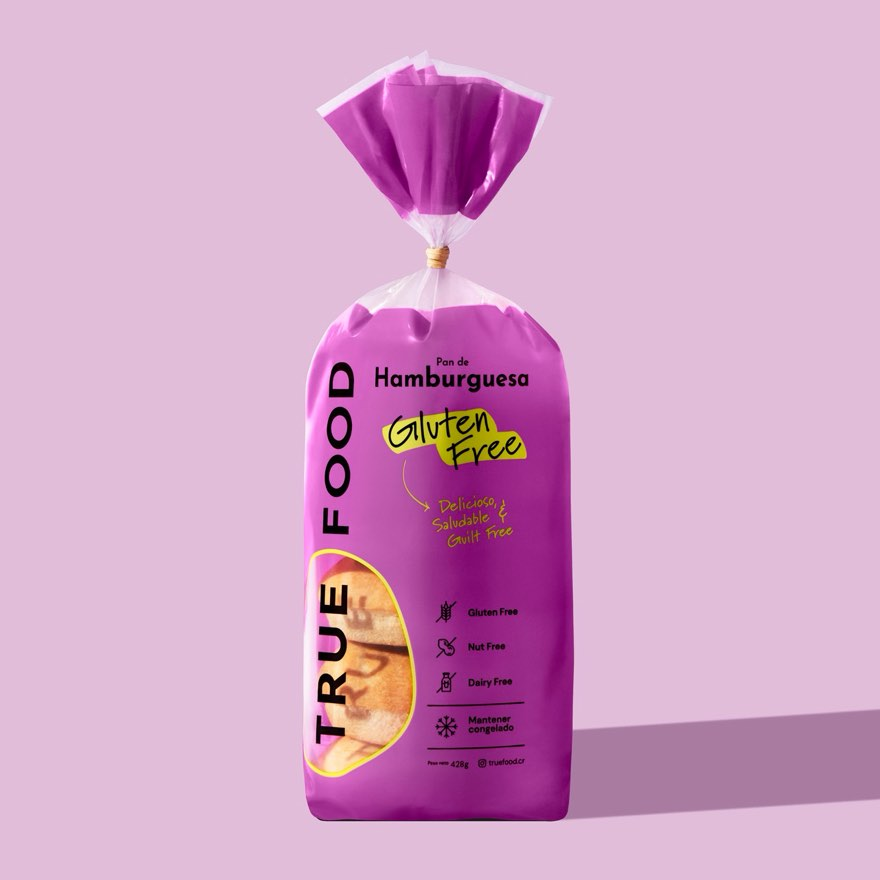
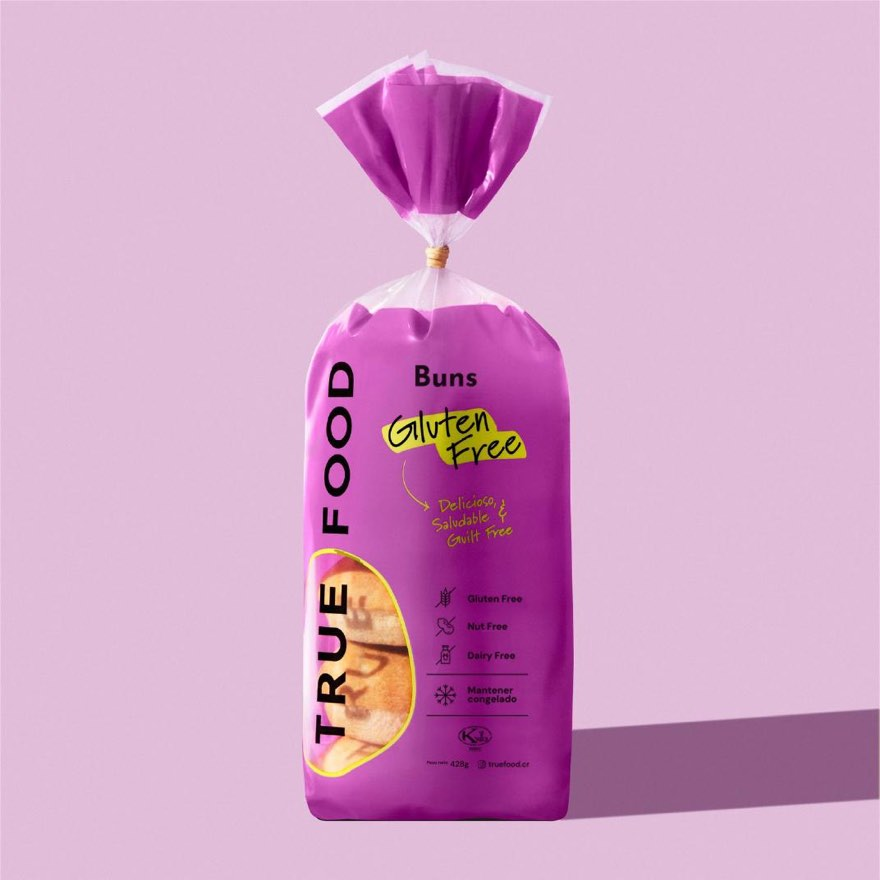
Hero B, menú de secciones, títulos nuevos y vida útil
- Hero: «Pan de verdad. Sin gluten.» con la bajada corrida en una sola
  frase (antes iba forzada a 30ch y se partía en dos).
- Barra pegada con menú de cinco secciones. En celular se desliza en
  horizontal, con un degradado en el borde que avisa que sigue. Sin
  hamburguesa: escondería justo lo que el comprador viene a buscar.
- Las anclas caían debajo del encabezado. Medido: hasta 128px en celular
  y 87px en escritorio; scroll-margin-top ajustado por encima de eso.
- Títulos: «Nuestro mantra», «Nuestros productos», «Nuestra historia».
  La frase del amor de una mamá pasa a ser la primera línea del texto.
- Columna «Vida útil · 6 meses» en la tabla del comprador, confirmada.
- Buns: empaque nuevo. La bolsa ahora dice «Buns», que era el nombre que
  ya usaba el sitio — no queda nada por sincronizar con Odoo ni Truefie.

diff --git a/index.html b/index.html
@@ -34,6 +34,15 @@
       <a href="/" aria-current="true" lang="es">ES</a>
       <a href="/en/" lang="en" hreflang="en">EN</a>
     </nav>
+    <nav class="secciones" aria-label="Secciones del sitio">
+      <ul>
+        <li><a href="#productos">Productos</a></li>
+        <li><a href="#donde">D&oacute;nde comprar</a></li>
+        <li><a href="#sellos">Certificaciones</a></li>
+        <li><a href="#nosotras">Historia</a></li>
+        <li><a href="#b2b">Exportaci&oacute;n</a></li>
+      </ul>
+    </nav>
   </div>
 </header>
 
@@ -46,8 +55,8 @@
        ==================================================================== -->
   <section class="hero">
     <div class="hero-txt">
-      <h1><span>Nadie adivina</span><span>que es gluten free.</span></h1>
-      <p class="hero-sub">Pan de verdad, congelado. En los congeladores de tu súper.</p>
+      <h1><span>Pan de verdad.</span><span>Sin gluten.</span></h1>
+      <p class="hero-sub">Hecho con los mejores ingredientes, naturalmente libres de gluten. En los congeladores del supermercado.</p>
     </div>
     <img class="hero-foto"
          src="assets/img/hero-miga-1800.jpg"
@@ -62,13 +71,13 @@
        ==================================================================== -->
   <section class="seccion mantra" aria-labelledby="t-mantra">
     <div class="inner">
-      <h2 id="t-mantra" class="rotulo" style="color:#8E927F">Lo que nos define</h2>
+      <h2 id="t-mantra" class="rotulo" style="color:#8E927F">Nuestro mantra</h2>
       <ol>
         <li>delicioso</li>
         <li>saludable</li>
         <li>gluten free</li>
       </ol>
-      <p>Comida de verdad, hecha con ingredientes reales y naturalmente libre de gluten.</p>
+      <p>En ese orden. Primero tiene que estar rico. Si no es divino, no es True Food.</p>
     </div>
   </section>
 
@@ -78,7 +87,7 @@
   <section class="seccion productos" id="productos" aria-labelledby="t-prod">
     <div class="inner">
       <p class="rotulo">Los productos</p>
-      <h2 id="t-prod">Seis, y todos congelados</h2>
+      <h2 id="t-prod">Nuestros productos</h2>
       <p class="lede">Cada uno libre de gluten, lácteos y nueces. Los vas a reconocer en el congelador por el color de la bolsa.</p>
 
       <div class="rejilla">
@@ -115,7 +124,7 @@
 
         <article class="prod" style="--c:var(--c-buns)">
           <div class="prod-fotos">
-            <img class="prod-bolsa" src="assets/img/bolsa-buns.jpg" width="880" height="880" loading="lazy" alt="Bolsa morada de Buns de True Food">
+            <img class="prod-bolsa" src="assets/img/bolsa-buns.jpg" width="880" height="880" loading="lazy" alt="Bolsa morada de Buns de True Food, empaque nuevo">
             <img class="prod-servido" src="assets/img/servido-buns.jpg" width="880" height="1100" loading="lazy" alt="Hamburguesa armada con un bun de True Food">
           </div>
           <div class="prod-nombre"><span class="prod-punto" aria-hidden="true"></span><h3>Buns</h3></div>
@@ -200,8 +209,8 @@
       <img src="assets/img/fundadoras.jpg" width="1100" height="1467" loading="lazy" alt="Andrea Fernández y Lorena Madrid, fundadoras de True Food">
       <div>
         <p class="rotulo" style="color:#4A5220">Quiénes somos</p>
-        <h2 id="t-nos">True Food nace del amor de una mamá</h2>
-        <p>Cuando Santiago, el hijo menor de Andrea, empezó con alergias e intolerancias alimentarias, ella hizo lo que haría cualquier madre: buscar respuestas. En ese camino descubrió que el problema no era solo lo que comía, sino cómo su cuerpo reaccionaba a ciertos alimentos, entre ellos el gluten.</p>
+        <h2 id="t-nos">Nuestra historia</h2>
+        <p>True Food nace del amor de una mamá. Cuando Santiago, el hijo menor de Andrea, empezó con alergias e intolerancias alimentarias, ella hizo lo que haría cualquier madre: buscar respuestas. En ese camino descubrió que el problema no era solo lo que comía, sino cómo su cuerpo reaccionaba a ciertos alimentos, entre ellos el gluten.</p>
         <p>Lo que empezó como un ajuste en casa terminó cambiando la vida de la familia, y dando origen a un negocio que hoy ayuda a cientos de personas. Junto a su amiga Lorena Madrid, Andrea armó True Food para demostrar que sí se puede tener un estilo de vida delicioso, saludable y gluten free.</p>
         <p class="firma">«Porque lo bueno es real, y lo real es bueno.»</p>
         <ul class="credenciales">
@@ -231,6 +240,7 @@
                 <tr>
                   <th scope="col">Producto</th>
                   <th scope="col">Presentación</th>
+                  <th scope="col">Vida útil</th>
                   <th scope="col">Peso</th>
                   <th scope="col">Caja máster</th>
                   <th scope="col">Dimensiones</th>
@@ -240,27 +250,27 @@
               <tbody>
                 <tr style="--c:var(--c-blanco)">
                   <th scope="row"><span class="celda-punto" aria-hidden="true"></span>Pan Blanco</th>
-                  <td>Rebanado</td><td>740 g</td><td>6 unidades</td><td>30 × 24 × 23 cm</td><td>RE-CR-22-09623</td>
+                  <td>Rebanado</td><td>6 meses</td><td>740 g</td><td>6 unidades</td><td>30 × 24 × 23 cm</td><td>RE-CR-22-09623</td>
                 </tr>
                 <tr style="--c:var(--c-semillas)">
                   <th scope="row"><span class="celda-punto" aria-hidden="true"></span>Pan de Semillas</th>
-                  <td>Rebanado</td><td>915 g</td><td>6 unidades</td><td>30 × 24 × 23 cm</td><td>RE-CR-22-08653</td>
+                  <td>Rebanado</td><td>6 meses</td><td>915 g</td><td>6 unidades</td><td>30 × 24 × 23 cm</td><td>RE-CR-22-08653</td>
                 </tr>
                 <tr style="--c:var(--c-frances)">
                   <th scope="row"><span class="celda-punto" aria-hidden="true"></span>Pan Francés</th>
-                  <td>4 unidades por empaque</td><td>520 g</td><td>6 empaques · 24 unidades</td><td>30 × 24 × 23 cm</td><td>RE-CR-22-09623</td>
+                  <td>4 unidades por empaque</td><td>6 meses</td><td>520 g</td><td>6 empaques · 24 unidades</td><td>30 × 24 × 23 cm</td><td>RE-CR-22-09623</td>
                 </tr>
                 <tr style="--c:var(--c-buns)">
                   <th scope="row"><span class="celda-punto" aria-hidden="true"></span>Buns</th>
-                  <td>4 unidades por empaque</td><td>428 g</td><td>6 empaques · 24 unidades</td><td>30 × 24 × 23 cm</td><td>RE-CR-22-09623</td>
+                  <td>4 unidades por empaque</td><td>6 meses</td><td>428 g</td><td>6 empaques · 24 unidades</td><td>30 × 24 × 23 cm</td><td>RE-CR-22-09623</td>
                 </tr>
                 <tr style="--c:var(--c-pizza)">
                   <th scope="row"><span class="celda-punto" aria-hidden="true"></span>Pizza Crust</th>
-                  <td>2 unidades por empaque</td><td>560 g</td><td>6 empaques · 12 unidades</td><td>28 × 20 × 28 cm</td><td>RE-CR-24-07412</td>
+                  <td>2 unidades por empaque</td><td>6 meses</td><td>560 g</td><td>6 empaques · 12 unidades</td><td>28 × 20 × 28 cm</td><td>RE-CR-24-07412</td>
                 </tr>
                 <tr style="--c:var(--c-cookie)">
                   <th scope="row"><span class="celda-punto" aria-hidden="true"></span>Cookie Dough</th>
-                  <td>Masa congelada</td><td>340 g</td><td>12 unidades</td><td>30 × 22 × 22 cm</td><td>A-CR-25-29437</td>
+                  <td>Masa congelada</td><td>6 meses</td><td>340 g</td><td>12 unidades</td><td>30 × 22 × 22 cm</td><td>A-CR-25-29437</td>
                 </tr>
               </tbody>
             </table>

diff --git a/en/index.html b/en/index.html
@@ -34,6 +34,15 @@
       <a href="/" lang="es" hreflang="es">ES</a>
       <a href="/en/" aria-current="true" lang="en">EN</a>
     </nav>
+    <nav class="secciones" aria-label="Site sections">
+      <ul>
+        <li><a href="#productos">Products</a></li>
+        <li><a href="#donde">Where to find us</a></li>
+        <li><a href="#sellos">Certifications</a></li>
+        <li><a href="#nosotras">Our story</a></li>
+        <li><a href="#b2b">Export</a></li>
+      </ul>
+    </nav>
   </div>
 </header>
 
@@ -46,8 +55,8 @@
        ==================================================================== -->
   <section class="hero">
     <div class="hero-txt">
-      <h1><span>Nobody guesses</span><span>it's gluten free.</span></h1>
-      <p class="hero-sub">Real bread, frozen. Made in Costa Rica.</p>
+      <h1><span>Real bread.</span><span>No gluten.</span></h1>
+      <p class="hero-sub">Made with the best ingredients, naturally gluten free. In the supermarket freezer aisle.</p>
     </div>
     <img class="hero-foto"
          src="../assets/img/hero-miga-1800.jpg"
@@ -62,13 +71,13 @@
        ==================================================================== -->
   <section class="seccion mantra" aria-labelledby="t-mantra">
     <div class="inner">
-      <h2 id="t-mantra" class="rotulo" style="color:#8E927F">What defines us</h2>
+      <h2 id="t-mantra" class="rotulo" style="color:#8E927F">Our mantra</h2>
       <ol>
         <li>delicious</li>
         <li>healthy</li>
         <li>gluten free</li>
       </ol>
-      <p>Real food, made with real ingredients and naturally gluten free.</p>
+      <p>In that order. It has to taste good first. If it isn&rsquo;t delicious, it isn&rsquo;t True Food.</p>
     </div>
   </section>
 
@@ -78,7 +87,7 @@
   <section class="seccion productos" id="productos" aria-labelledby="t-prod">
     <div class="inner">
       <p class="rotulo">The products</p>
-      <h2 id="t-prod">Six products, all frozen</h2>
+      <h2 id="t-prod">Our products</h2>
       <p class="lede">Every one of them free of gluten, dairy and nuts. Each has its own colour on the shelf.</p>
 
       <div class="rejilla">
@@ -115,7 +124,7 @@
 
         <article class="prod" style="--c:var(--c-buns)">
           <div class="prod-fotos">
-            <img class="prod-bolsa" src="../assets/img/bolsa-buns.jpg" width="880" height="880" loading="lazy" alt="Purple bag of True Food Buns">
+            <img class="prod-bolsa" src="../assets/img/bolsa-buns.jpg" width="880" height="880" loading="lazy" alt="Purple bag of True Food Buns, new packaging">
             <img class="prod-servido" src="../assets/img/servido-buns.jpg" width="880" height="1100" loading="lazy" alt="Burger built on a True Food bun">
           </div>
           <div class="prod-nombre"><span class="prod-punto" aria-hidden="true"></span><h3>Buns</h3></div>
@@ -200,8 +209,8 @@
       <img src="../assets/img/fundadoras.jpg" width="1100" height="1467" loading="lazy" alt="Andrea Fernández and Lorena Madrid, founders of True Food">
       <div>
         <p class="rotulo" style="color:#4A5220">Who we are</p>
-        <h2 id="t-nos">True Food started with a mother</h2>
-        <p>When Santiago, Andrea's youngest son, began showing food allergies and intolerances, she did what any mother would: she looked for answers. Along the way she found that the problem was not only what he ate, but how his body reacted to certain foods — gluten among them.</p>
+        <h2 id="t-nos">Our story</h2>
+        <p>True Food started with a mother. When Santiago, Andrea's youngest son, began showing food allergies and intolerances, she did what any mother would: she looked for answers. Along the way she found that the problem was not only what he ate, but how his body reacted to certain foods — gluten among them.</p>
         <p>What started as a change at home ended up changing the family's life, and became a business that today helps hundreds of people. Together with her friend Lorena Madrid, Andrea built True Food to prove that a delicious, healthy, gluten-free life is possible.</p>
         <p class="firma">“Because what's good is real, and what's real is good.”</p>
         <ul class="credenciales">
@@ -232,6 +241,7 @@
                 <tr>
                   <th scope="col">Product</th>
                   <th scope="col">Pack format</th>
+                  <th scope="col">Shelf life</th>
                   <th scope="col">Weight</th>
                   <th scope="col">Master case</th>
                   <th scope="col">Dimensions</th>
@@ -241,27 +251,27 @@
               <tbody>
                 <tr style="--c:var(--c-blanco)">
                   <th scope="row"><span class="celda-punto" aria-hidden="true"></span>White Bread</th>
-                  <td>Sliced</td><td>740 g</td><td>6 units</td><td>30 × 24 × 23 cm</td><td>RE-CR-22-09623</td>
+                  <td>Sliced</td><td>6 months</td><td>740 g</td><td>6 units</td><td>30 × 24 × 23 cm</td><td>RE-CR-22-09623</td>
                 </tr>
                 <tr style="--c:var(--c-semillas)">
                   <th scope="row"><span class="celda-punto" aria-hidden="true"></span>Seeded Bread</th>
-                  <td>Sliced</td><td>915 g</td><td>6 units</td><td>30 × 24 × 23 cm</td><td>RE-CR-22-08653</td>
+                  <td>Sliced</td><td>6 months</td><td>915 g</td><td>6 units</td><td>30 × 24 × 23 cm</td><td>RE-CR-22-08653</td>
                 </tr>
                 <tr style="--c:var(--c-frances)">
                   <th scope="row"><span class="celda-punto" aria-hidden="true"></span>French Bread</th>
-                  <td>4 units per pack</td><td>520 g</td><td>6 packs · 24 units</td><td>30 × 24 × 23 cm</td><td>RE-CR-22-09623</td>
+                  <td>4 units per pack</td><td>6 months</td><td>520 g</td><td>6 packs · 24 units</td><td>30 × 24 × 23 cm</td><td>RE-CR-22-09623</td>
                 </tr>
                 <tr style="--c:var(--c-buns)">
                   <th scope="row"><span class="celda-punto" aria-hidden="true"></span>Buns</th>
-                  <td>4 units per pack</td><td>428 g</td><td>6 packs · 24 units</td><td>30 × 24 × 23 cm</td><td>RE-CR-22-09623</td>
+                  <td>4 units per pack</td><td>6 months</td><td>428 g</td><td>6 packs · 24 units</td><td>30 × 24 × 23 cm</td><td>RE-CR-22-09623</td>
                 </tr>
                 <tr style="--c:var(--c-pizza)">
                   <th scope="row"><span class="celda-punto" aria-hidden="true"></span>Pizza Crust</th>
-                  <td>2 units per pack</td><td>560 g</td><td>6 packs · 12 units</td><td>28 × 20 × 28 cm</td><td>RE-CR-24-07412</td>
+                  <td>2 units per pack</td><td>6 months</td><td>560 g</td><td>6 packs · 12 units</td><td>28 × 20 × 28 cm</td><td>RE-CR-24-07412</td>
                 </tr>
                 <tr style="--c:var(--c-cookie)">
                   <th scope="row"><span class="celda-punto" aria-hidden="true"></span>Cookie Dough</th>
-                  <td>Frozen dough</td><td>340 g</td><td>12 units</td><td>30 × 22 × 22 cm</td><td>A-CR-25-29437</td>
+                  <td>Frozen dough</td><td>6 months</td><td>340 g</td><td>12 units</td><td>30 × 22 × 22 cm</td><td>A-CR-25-29437</td>
                 </tr>
               </tbody>
             </table>

diff --git a/assets/css/site.css b/assets/css/site.css
@@ -78,11 +78,50 @@ p:last-child{margin-bottom:0}
    ========================================================================== */
 .nav{position:sticky;top:0;z-index:50;background:var(--papel);
      border-bottom:1px solid var(--linea)}
-.nav-in{max-width:var(--ancho);margin-inline:auto;padding:.7rem var(--borde);
-        display:flex;align-items:center;justify-content:space-between;gap:1rem}
-.nav-logo img{width:clamp(112px,20vw,140px)}
-.idioma{display:flex;align-items:center;gap:.15rem;font-size:.8125rem;font-weight:700;
-        letter-spacing:.06em}
+/* En celular: logo e idioma arriba, y el menu de secciones abajo, deslizable.
+   Nada de hamburguesa — esconderia justo lo que el comprador viene a buscar. */
+.nav-in{max-width:var(--ancho);margin-inline:auto;padding:.6rem var(--borde) 0;
+        display:flex;flex-wrap:wrap;align-items:center;gap:.4rem 1rem}
+.nav-logo{order:1;flex:0 0 auto}
+.nav-logo img{width:clamp(108px,20vw,136px)}
+.idioma{order:2;margin-left:auto;display:flex;align-items:center;gap:.15rem;
+        font-size:.8125rem;font-weight:700;letter-spacing:.06em}
+.secciones{order:3;flex:1 0 100%;min-width:0}
+
+.secciones ul{list-style:none;margin:0;padding:0 0 .55rem;display:flex;gap:1.35rem;
+              overflow-x:auto;overscroll-behavior-x:contain;
+              scrollbar-width:none;-webkit-overflow-scrolling:touch}
+.secciones ul::-webkit-scrollbar{display:none}
+.secciones li{flex:0 0 auto}
+.secciones a{display:block;white-space:nowrap;text-decoration:none;
+             font-size:.8125rem;font-weight:500;letter-spacing:.07em;text-transform:uppercase;
+             color:var(--gris);padding:.35rem 0;border-bottom:2px solid transparent}
+.secciones a:hover,.secciones a:focus-visible{color:var(--tinta);border-bottom-color:var(--lima)}
+/* margen de respiro al final de la tira, para que se note que sigue */
+.secciones li:last-child{padding-right:var(--borde)}
+
+/* En celular la tira se desliza; sin una pista visual nadie lo descubre.
+   El degradado del borde derecho dice "hay mas" sin ocupar lugar. */
+@media (max-width:939px){
+  .secciones{position:relative}
+  .secciones::after{content:"";position:absolute;top:0;right:0;bottom:0;width:2.4rem;
+    pointer-events:none;
+    background:linear-gradient(90deg,rgba(255,255,255,0),var(--papel) 72%)}
+}
+
+@media (min-width:940px){
+  .nav-in{padding:.55rem var(--borde);gap:1.8rem;flex-wrap:nowrap}
+  .secciones{order:2;flex:1 1 auto;margin-left:.4rem}
+  .secciones ul{padding-bottom:0;gap:1.6rem}
+  .idioma{order:3;margin-left:0;flex:0 0 auto}
+}
+
+/* El encabezado pegado tapa el destino de un ancla si no se compensa. */
+/* Medido: el encabezado mide hasta 128px en celular/tableta y 87px en
+   escritorio. La compensacion va por encima de eso para que el titulo de la
+   seccion quede visible y no debajo de la barra. */
+section[id]{scroll-margin-top:144px}
+@media (min-width:940px){section[id]{scroll-margin-top:100px}}
 .idioma a,.idioma span{padding:.3rem .5rem;border-radius:2px;text-decoration:none}
 .idioma [aria-current="true"]{background:var(--tinta);color:var(--lima)}
 .idioma a:not([aria-current]){color:var(--gris)}
@@ -97,8 +136,8 @@ p:last-child{margin-bottom:0}
           padding:clamp(2.5rem,8vw,5.5rem) var(--borde) clamp(2rem,6vw,4rem)}
 .hero h1{font-size:clamp(2.9rem,9.5vw,6.2rem);line-height:.97;letter-spacing:-.02em}
 .hero h1 span{display:block}
-.hero-sub{font-size:clamp(1rem,2.1vw,1.3125rem);line-height:1.45;color:#1E2410;
-          margin:clamp(1.1rem,3vw,1.8rem) 0 0;max-width:30ch}
+.hero-sub{font-size:clamp(1rem,1.9vw,1.25rem);line-height:1.5;color:#1E2410;
+          margin:clamp(1.1rem,3vw,1.8rem) 0 0;max-width:56ch}
 .hero-foto{width:100%;height:clamp(230px,42vh,460px);object-fit:cover;object-position:center 58%}
 
 /* ==========================================================================
